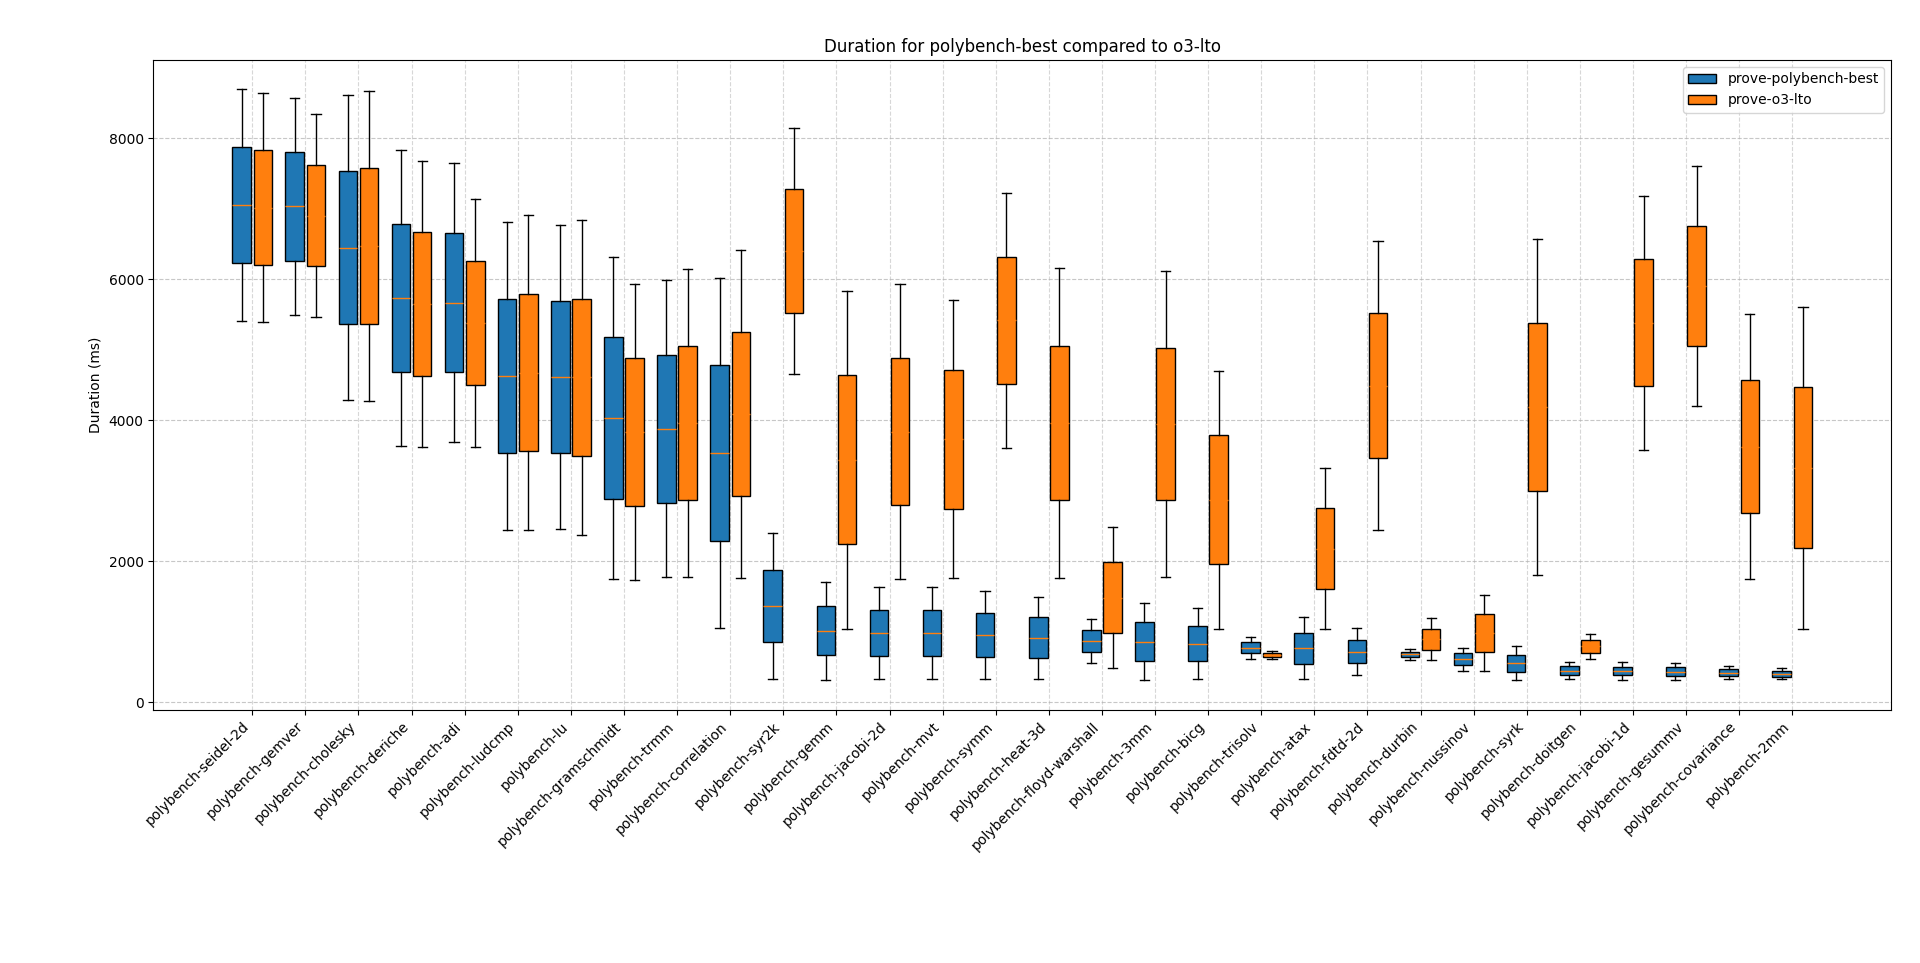
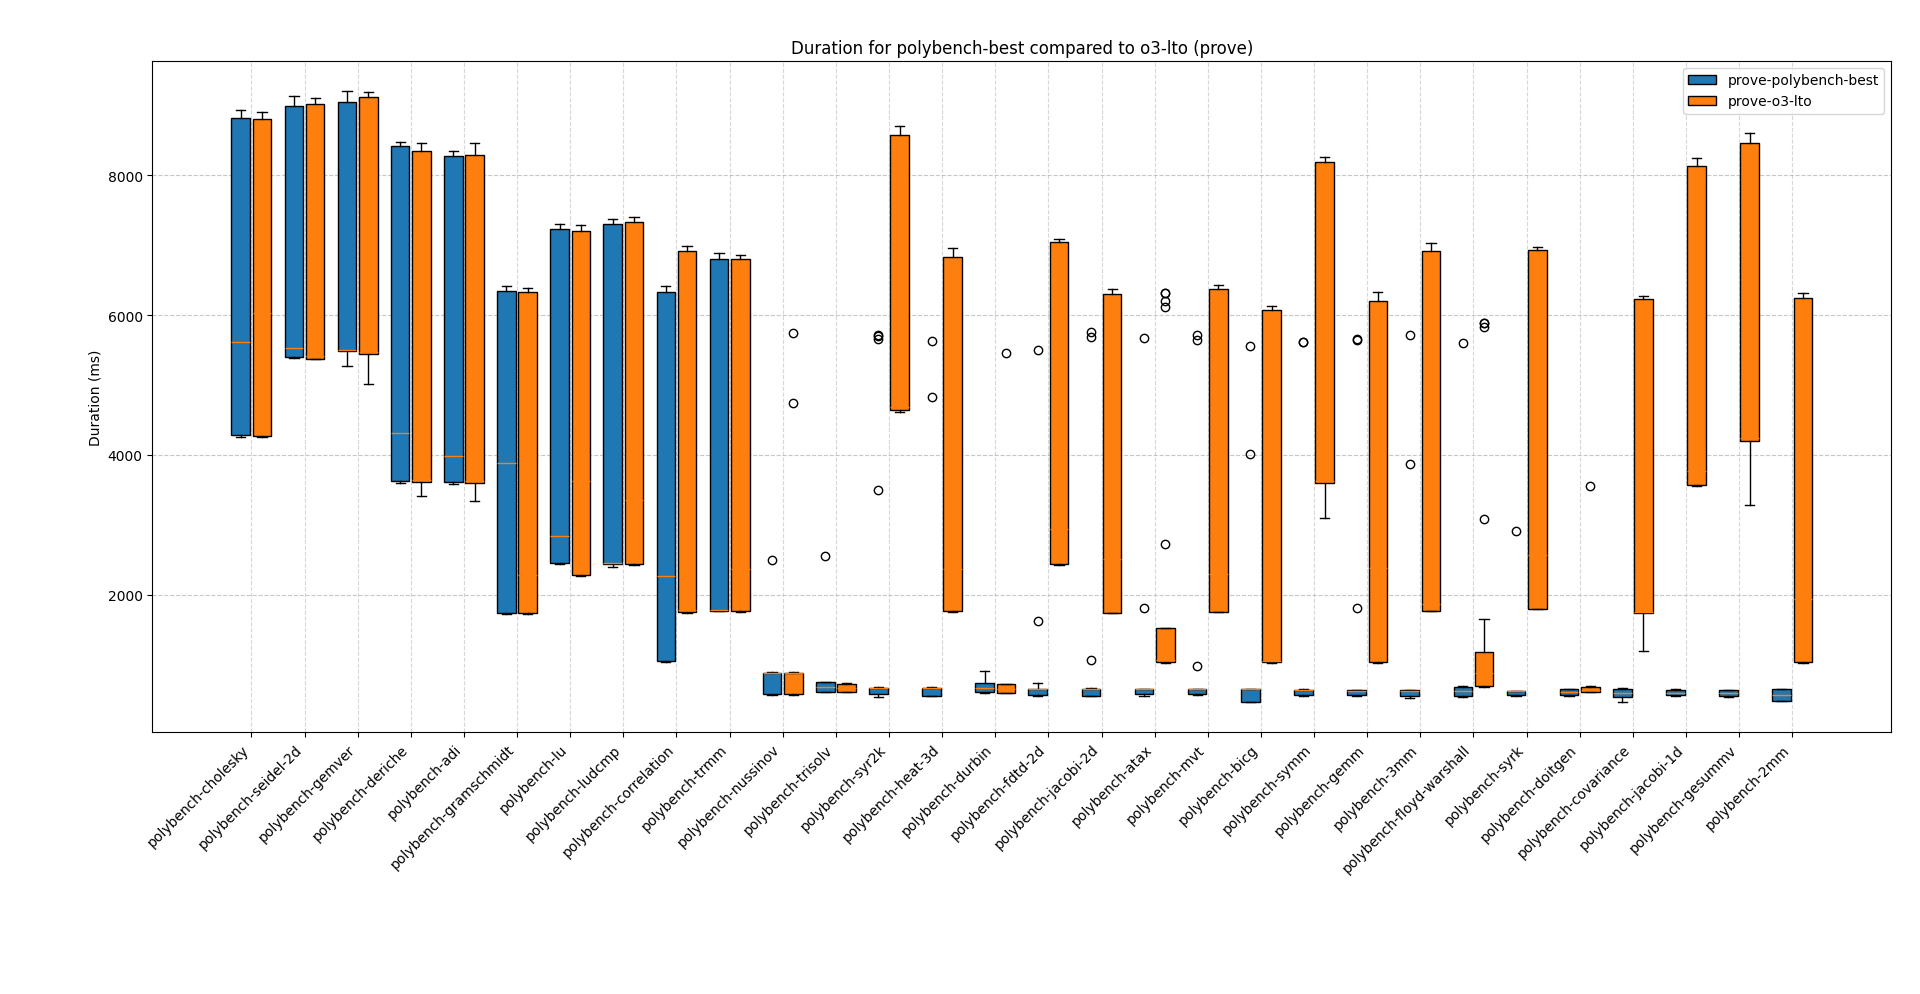
Consider all samples and plot per-zkvm durations

diff --git a/zkbench/plot/duration_by_program.py b/zkbench/plot/duration_by_program.py
@@ -1,16 +1,22 @@
 import logging
 from zkbench.config import get_programs, get_zkvms
 from zkbench.plot.common import (
-    get_point_estimate_mean_ms,
+    get_sample_times_ms,
     get_title,
     plot_grouped_boxplot,
 )
 
 
-def plot_duration_by_program(dir: str, profile: str, baseline_profile: str, measurement: str):
+def plot_duration_by_program(
+    dir: str,
+    profile: str,
+    baseline_profile: str,
+    measurement: str,
+    zkvm: str | None = None,
+):
     title = get_title(
         f"Duration for {profile} compared to {baseline_profile}",
-        [],
+        [measurement, zkvm],
     )
 
     durations_profile = []
@@ -20,18 +26,18 @@ def plot_duration_by_program(dir: str, profile: str, baseline_profile: str, meas
         err = False
         current_profile = []
         current_baseline = []
-        for zkvm in get_zkvms():
+        for current_zkvm in get_zkvms() if zkvm is None else [zkvm]:
             try:
-                p = get_point_estimate_mean_ms(dir, program, zkvm, profile, measurement)
-                p_baseline = get_point_estimate_mean_ms(
-                    dir, program, zkvm, baseline_profile, measurement
+                p = get_sample_times_ms(
+                    dir, program, current_zkvm, profile, measurement
                 )
-                current_profile.append(p)
-                current_baseline.append(p_baseline)
+                p_baseline = get_sample_times_ms(
+                    dir, program, current_zkvm, baseline_profile, measurement
+                )
+                current_profile.extend(p)
+                current_baseline.extend(p_baseline)
             except FileNotFoundError:
-                logging.warning(
-                    f"File not found for {program} {zkvm} {profile} {baseline_profile}. Skipping."
-                )
+                logging.warning(f"Skipping {program}")
                 err = True
                 break
         if err:

diff --git a/zkbench/plot/average_duration.py b/zkbench/plot/average_duration.py
@@ -2,6 +2,7 @@ import numpy as np
 from zkbench.config import get_profiles_ids
 from zkbench.plot.common import (
     get_point_estimate_mean_ms,
+    get_sample_times_ms,
     get_title,
     get_values_by_profile,
     plot_grouped_boxplot,
@@ -19,7 +20,9 @@ def plot_average_duration(
     title = get_title(
         "Duration by profile, sorted by median", [zkvm, measurement, program]
     )
-    profiles = get_profiles_ids() if profiles is None else profiles
+    profiles = (
+        get_profiles_ids() if profiles is None or len(profiles) == 0 else profiles
+    )
     values = get_values_by_profile(
         dir,
         zkvm,
@@ -27,13 +30,9 @@ def plot_average_duration(
         program,
         None,
         profiles,
-        lambda dir, program, zkvm, profile, measurement: get_point_estimate_mean_ms(
+        lambda dir, program, zkvm, profile, measurement: get_sample_times_ms(
             dir, program, zkvm, profile, measurement
         ),
     )
-    # TODO: consider all values that criterion recorded
-    if not program or not zkvm:
-        plot_grouped_boxplot([values], profiles, title, "Duration (ms)", [])
-    else:
-        values = np.squeeze(values, axis=1)
-        plot_sorted([values], profiles, title, "Duration (ms)", [None])
+
+    plot_grouped_boxplot([values], profiles, title, "Duration (ms)", [])

diff --git a/zkbench/plot/common.py b/zkbench/plot/common.py
@@ -134,6 +134,13 @@ def get_point_estimate_mean_ms(
     return data["mean"]["point_estimate"] / 1_000_000
 
 
+def get_sample_times_ms(
+    dir: str, program: str, zkvm: str, profile: str, measurement: str
+):
+    data = read_sample_data(dir, program, zkvm, profile, measurement)
+    return [item / 1_000_000 for item in data["times"]]
+
+
 def plot_grouped_boxplot(values, labels, title, y_label, series_labels, bar_width=0.35):
     num_profiles = len(labels)
     num_series = len(values)
@@ -286,7 +293,10 @@ def get_values_by_profile(
                     try:
                         r = fn(dir, prog, zk, profile, meas)
                         if r is not None:
-                            values_list.append(r)
+                            if isinstance(r, list):
+                                values_list.extend(r)
+                            else:
+                                values_list.append(r)
                         elif skipped_value is not None:
                             values_list.append(skipped_value)
                     except FileNotFoundError:

diff --git a/zkbench/plot/plot.py b/zkbench/plot/plot.py
@@ -231,10 +231,13 @@ def improvement_by_program_cli(profile: str, baseline_profile: str, speedup: boo
     "--baseline-profile", type=click.Choice(get_profiles_ids()), required=True
 )
 @click.option("--measurement", type=click.Choice(get_measurements()), required=True)
-def duration_by_program_cli(profile: str, baseline_profile: str, measurement: str):
+@click.option("--zkvm", type=click.Choice(get_zkvms()), required=False)
+def duration_by_program_cli(
+    profile: str, baseline_profile: str, measurement: str, zkvm: str | None
+):
     dir = click.get_current_context().parent.params["dir"]
 
-    plot_duration_by_program(dir, profile, baseline_profile, measurement)
+    plot_duration_by_program(dir, profile, baseline_profile, measurement, zkvm)
 
 
 @click.command(

diff --git a/zkbench/plot/average_improvement.py b/zkbench/plot/average_improvement.py
@@ -45,7 +45,6 @@ def plot_average_improvement(
     y_axis = "speedup" if speedup else "% faster"
     if global_average or len(relative_improvements_exec[0]) == 1:
         # if we only have one value, no need to plot boxplot
-        # TODO: in this case, consider all values that criterion recorded
         if not global_average:
             prove_values = np.squeeze(relative_improvements_prove, axis=1)
             exec_values = np.squeeze(relative_improvements_exec, axis=1)

diff --git a/results/docs/rq2/polybench.md b/results/docs/rq2/polybench.md
@@ -18,9 +18,25 @@ Run is documented [here](./report/all-polybench-cycle-count/README.md).
 
 ![prove-duration](./imgs/polybench-prove.png)
 
+#### prove duration sp1
+
+![prove-duration-sp1](./imgs/polybench-prove-sp1.png)
+
+#### prove duration risc0
+
+![prove-duration-risc0](./imgs/polybench-prove-risc0.png)
+
 ### exec
 
 ![exec-duration](./imgs/polybench-exec.png)
+
+#### exec duration sp1
+
+![exec-duration-sp1](./imgs/polybench-exec-sp1.png)
+
+#### exec duration risc0
+
+![exec-duration-risc0](./imgs/polybench-exec-risc0.png)
 
 ## Cycle counts
 
